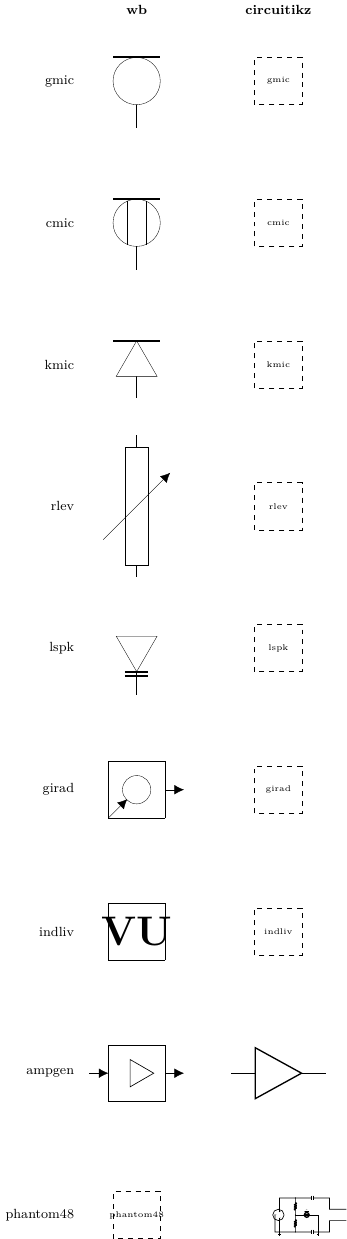
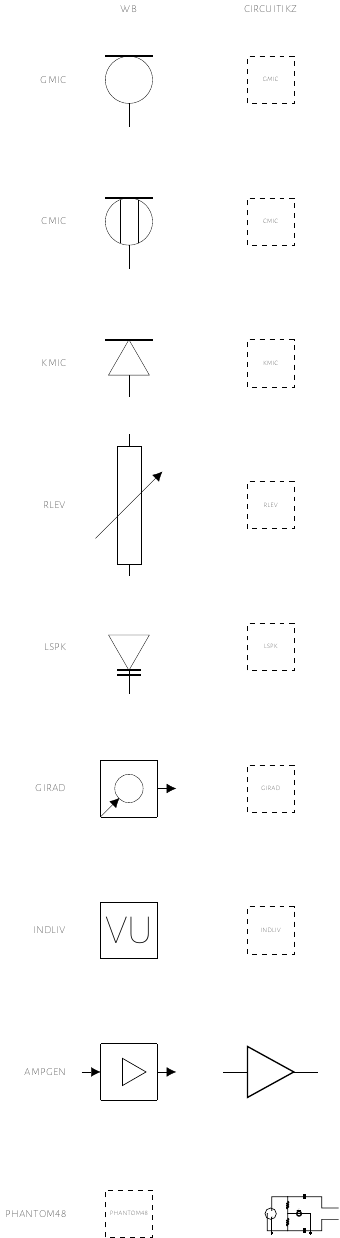
fix(doc): ripristina il font Datalegreya nel catalogo (lib/style.tex)

diff --git a/lib/style.tex b/lib/style.tex
@@ -1,0 +1,7 @@
+% Stile di presentazione — omaggio al catalogo WB 1976: font Datalegreya.
+% NON è caricato dalla libreria (una libreria non deve imporre il font del documento):
+% si fa \input nel preambolo dei soli documenti che vogliono l'aspetto WB (es. il catalogo).
+% Richiede XeLaTeX/LuaLaTeX e il font Datalegreya installato.
+\usepackage{fontspec}
+\defaultfontfeatures{Mapping=tex-text}
+\setmainfont{Datalegreya}

diff --git a/doc/catalog.tex b/doc/catalog.tex
@@ -1,5 +1,6 @@
 %!TEX TS-program = xelatex
 \documentclass[tikz]{standalone}
+\input{../lib/style.tex}   % font Datalegreya (aspetto del catalogo WB)
 \usepackage{circuitikz}
 \usetikzlibrary{sean}
 \input{../fonts/wb/font-wb.tex}